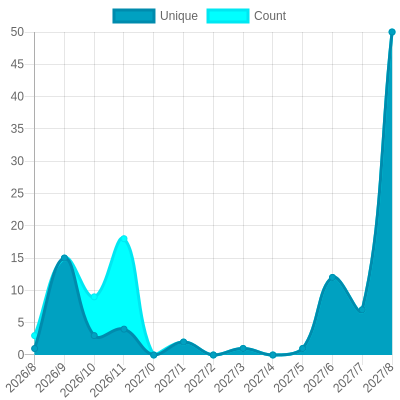
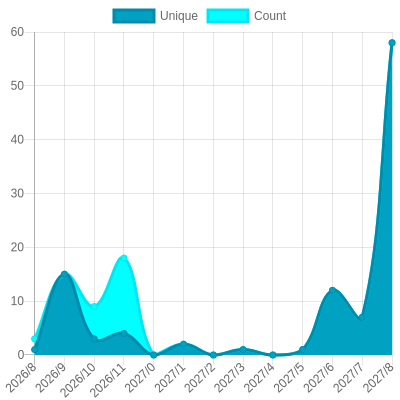
Update views

diff --git a/readme/634818522/year.md b/readme/634818522/year.md
@@ -23,10 +23,10 @@
 			<code>2026/9/1</code>
 		</td>
 		<td>
-			<code>50</code>
+			<code>58</code>
 		</td>
 		<td>
-			<code>50</code>
+			<code>58</code>
 		</td>
 	</tr>
 	<tr>
@@ -164,7 +164,7 @@
 </table>
 
 </details>
-<small><i>Last updated on 2026/9/30 6:12 AM UTC</i></small>
+<small><i>Last updated on 2026/9/30 12:11 PM UTC</i></small>
 
 ## ✂Copy and 📋 Paste
 ### SVG Badge

diff --git a/README.md b/README.md
@@ -85,7 +85,7 @@ The project created and maintained by [gayanvoice](https://github.com/gayanvoice
 	</tr>
 </table>
 
-<small><i>Last updated on 2026/9/30 6:12 AM UTC</i></small>
+<small><i>Last updated on 2026/9/30 12:11 PM UTC</i></small>
 
 ## ✂Copy and 📋 Paste
 ### Total Views Badge

diff --git a/readme/538093120/year.md b/readme/538093120/year.md
@@ -164,7 +164,7 @@
 </table>
 
 </details>
-<small><i>Last updated on 2026/9/30 6:12 AM UTC</i></small>
+<small><i>Last updated on 2026/9/30 12:10 PM UTC</i></small>
 
 ## ✂Copy and 📋 Paste
 ### SVG Badge

diff --git a/readme/641929933/year.md b/readme/641929933/year.md
@@ -164,7 +164,7 @@
 </table>
 
 </details>
-<small><i>Last updated on 2026/9/30 6:11 AM UTC</i></small>
+<small><i>Last updated on 2026/9/30 12:10 PM UTC</i></small>
 
 ## ✂Copy and 📋 Paste
 ### SVG Badge

diff --git a/readme/885847749/year.md b/readme/885847749/year.md
@@ -164,7 +164,7 @@
 </table>
 
 </details>
-<small><i>Last updated on 2026/9/30 6:11 AM UTC</i></small>
+<small><i>Last updated on 2026/9/30 12:10 PM UTC</i></small>
 
 ## ✂Copy and 📋 Paste
 ### SVG Badge
